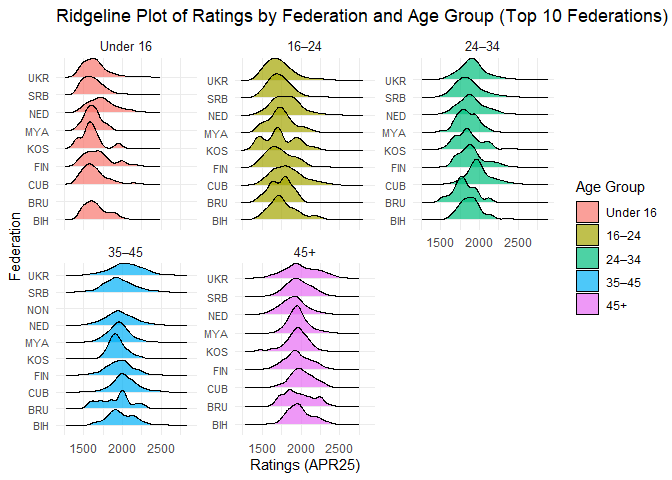
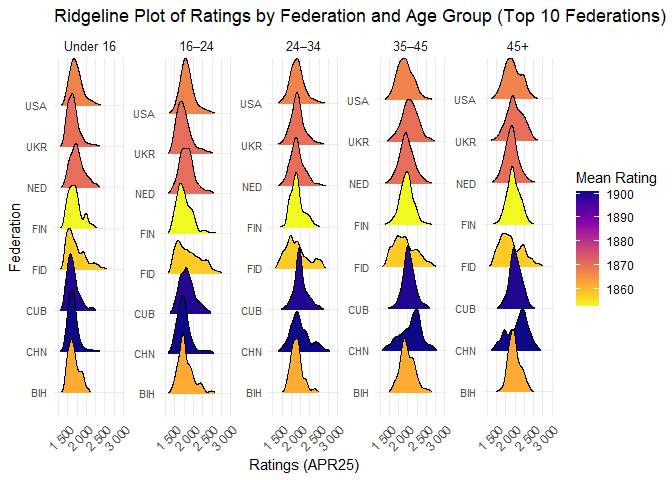
updated solution

diff --git a/Projects/hd25viet/madeleine1806.md b/Projects/hd25viet/madeleine1806.md
@@ -10,101 +10,91 @@
 <thead>
 <tr class="header">
 <th style="text-align: left;">Fed</th>
+<th style="text-align: right;">overall_mean</th>
 <th style="text-align: right;">16–24</th>
 <th style="text-align: right;">24–34</th>
 <th style="text-align: right;">35–45</th>
 <th style="text-align: right;">45+</th>
 <th style="text-align: right;">Under 16</th>
-<th style="text-align: right;">overall_mean</th>
 </tr>
 </thead>
 <tbody>
 <tr class="odd">
 <td style="text-align: left;">CHN</td>
+<td style="text-align: right;">1900.702</td>
 <td style="text-align: right;">1735.627</td>
 <td style="text-align: right;">1974.962</td>
 <td style="text-align: right;">2082.961</td>
 <td style="text-align: right;">2072.058</td>
 <td style="text-align: right;">1637.901</td>
-<td style="text-align: right;">1900.702</td>
 </tr>
 <tr class="even">
 <td style="text-align: left;">CUB</td>
+<td style="text-align: right;">1899.304</td>
 <td style="text-align: right;">1827.623</td>
 <td style="text-align: right;">1996.200</td>
 <td style="text-align: right;">2028.557</td>
 <td style="text-align: right;">2013.782</td>
 <td style="text-align: right;">1630.358</td>
-<td style="text-align: right;">1899.304</td>
 </tr>
 <tr class="odd">
 <td style="text-align: left;">NED</td>
+<td style="text-align: right;">1870.201</td>
 <td style="text-align: right;">1816.230</td>
 <td style="text-align: right;">1909.538</td>
 <td style="text-align: right;">1969.701</td>
 <td style="text-align: right;">1907.855</td>
 <td style="text-align: right;">1747.681</td>
-<td style="text-align: right;">1870.201</td>
 </tr>
 <tr class="even">
 <td style="text-align: left;">UKR</td>
+<td style="text-align: right;">1870.126</td>
 <td style="text-align: right;">1731.736</td>
 <td style="text-align: right;">1915.529</td>
 <td style="text-align: right;">2056.312</td>
 <td style="text-align: right;">2001.265</td>
 <td style="text-align: right;">1645.790</td>
-<td style="text-align: right;">1870.126</td>
 </tr>
 <tr class="odd">
 <td style="text-align: left;">USA</td>
+<td style="text-align: right;">1866.982</td>
 <td style="text-align: right;">1825.921</td>
 <td style="text-align: right;">1908.348</td>
 <td style="text-align: right;">1930.334</td>
 <td style="text-align: right;">1946.536</td>
 <td style="text-align: right;">1723.772</td>
-<td style="text-align: right;">1866.982</td>
 </tr>
 <tr class="even">
 <td style="text-align: left;">BIH</td>
+<td style="text-align: right;">1861.449</td>
 <td style="text-align: right;">1787.014</td>
 <td style="text-align: right;">1890.297</td>
 <td style="text-align: right;">1985.538</td>
 <td style="text-align: right;">1985.268</td>
 <td style="text-align: right;">1659.125</td>
-<td style="text-align: right;">1861.449</td>
 </tr>
 <tr class="odd">
 <td style="text-align: left;">FID</td>
+<td style="text-align: right;">1857.515</td>
 <td style="text-align: right;">1868.609</td>
 <td style="text-align: right;">1889.282</td>
 <td style="text-align: right;">1920.046</td>
 <td style="text-align: right;">1895.996</td>
 <td style="text-align: right;">1713.644</td>
-<td style="text-align: right;">1857.515</td>
 </tr>
 <tr class="even">
 <td style="text-align: left;">FIN</td>
+<td style="text-align: right;">1852.437</td>
 <td style="text-align: right;">1741.482</td>
 <td style="text-align: right;">1905.473</td>
 <td style="text-align: right;">1968.781</td>
 <td style="text-align: right;">1958.913</td>
 <td style="text-align: right;">1687.538</td>
-<td style="text-align: right;">1852.437</td>
 </tr>
 </tbody>
 </table>
 
 # Ridgeline Plots
-
-    ## Picking joint bandwidth of 47.2
-
-    ## Picking joint bandwidth of 57.2
-
-    ## Picking joint bandwidth of 46.5
-
-    ## Picking joint bandwidth of 47.1
-
-    ## Picking joint bandwidth of 39.7
 
 ![](madeleine1806_files/figure-markdown_strict/ridgeline%20plot-1.png)
 \# Heatmap
